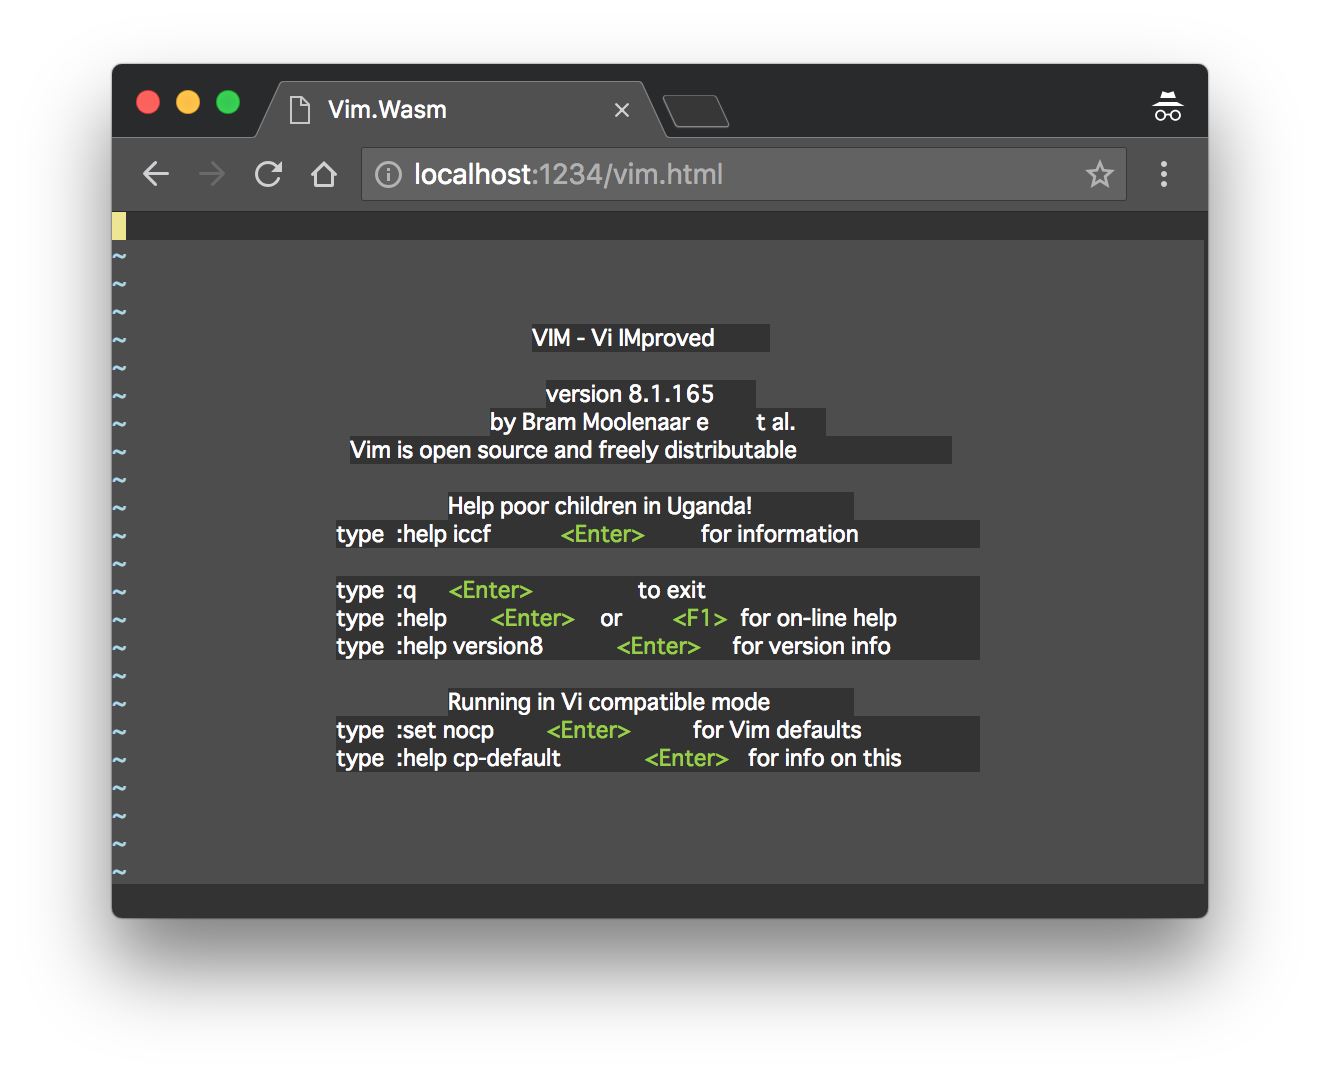
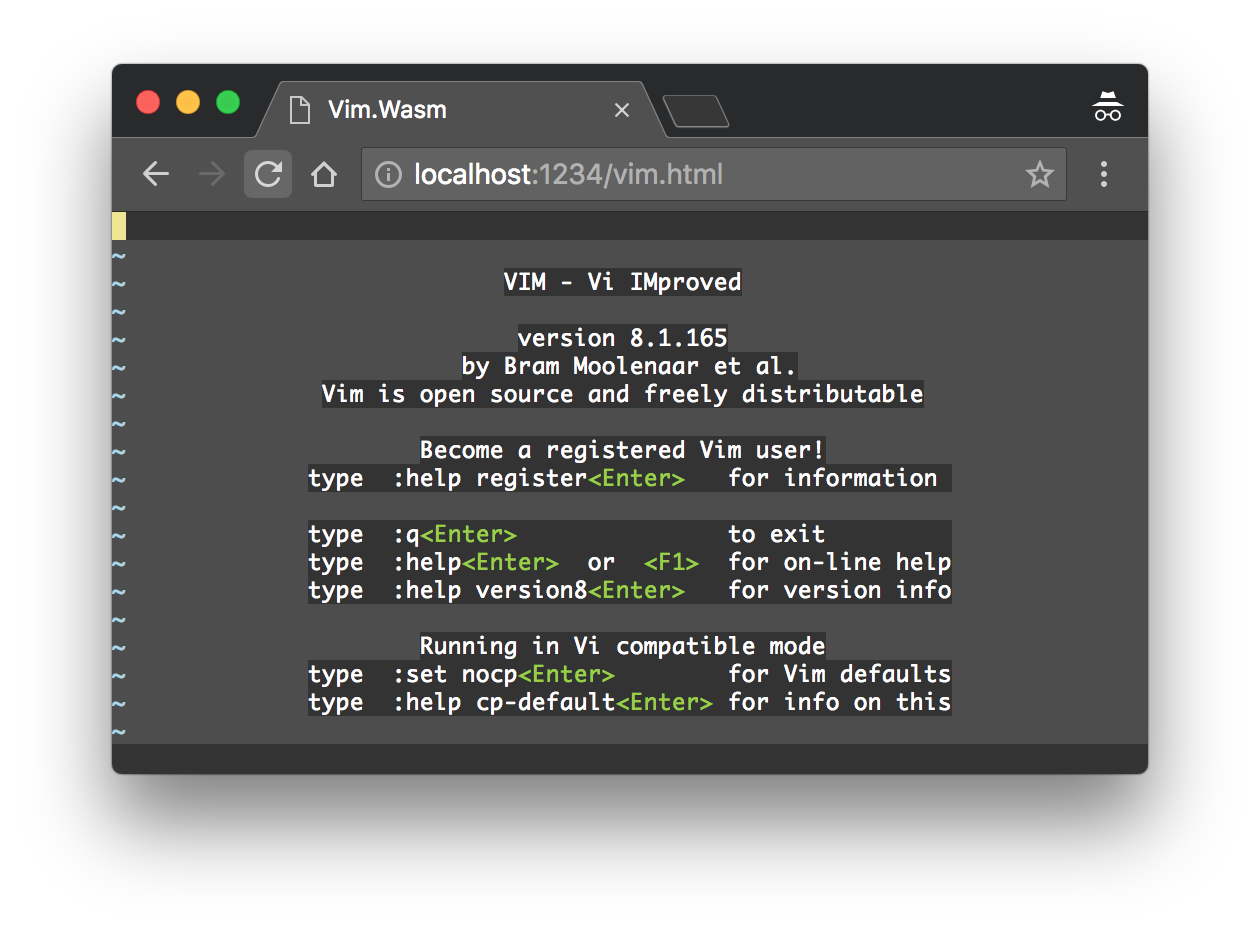
set 'Monaco' and 'Consolas' as better monospace fonts

Changed region(s): [[0.0619, 0.031, 0.9286, 0.8694]]

diff --git a/wasm/runtime.js b/wasm/runtime.js
@@ -212,7 +212,7 @@ const VimWasmRuntime = {
                 this.canvas.addEventListener('click', this.focus.bind(this));
                 this.resizeListener = this.onResize.bind(this);
                 window.addEventListener('resize', this.resizeListener);
-                this.fontName = 'monospace';
+                this.fontName = 'Monaco,Consolas,monospace';
                 this.input = new VimInput();
                 this.input.setFont(this.fontName, this.charHeight);
             }

diff --git a/src/gui_wasm.c b/src/gui_wasm.c
@@ -220,7 +220,7 @@ gui_mch_init_font(char_u *font_name, int fontset)
     }
 
     if (font_name == NULL) {
-        font_name = (char_u *)"monospace";
+        font_name = (char_u *)"Monaco,Consolas,monospace";
     }
 
     vimwasm_set_font((char *)font_name);
